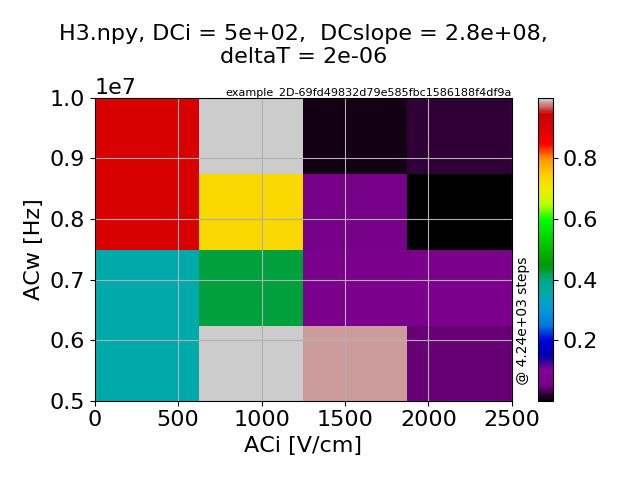
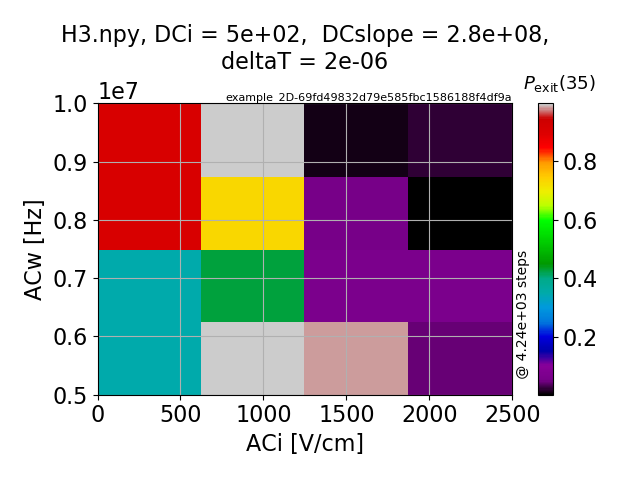
2D plots should also show the state_idx

diff --git a/src/main.py b/src/main.py
@@ -282,6 +282,8 @@ def plot(run_dir, options_fname, vmin=None, vmax=None):
           transform=plt.gca().transAxes, fontdict={'fontsize':8}, ha="right")
     units = option_dict["units"]
     if "scan_range2" in option_dict:
+       plt.text(1.2, 1.05, "$P_\mathrm{exit}("+str(option_dict['state_idx'])+")$",
+               transform=plt.gca().transAxes, fontdict={'fontsize':13}, ha="right")
        plt.xlabel(option_dict["scan_param"]+" ["+units[option_dict["scan_param"]]+"]")
        plt.ylabel(option_dict["scan_param2"]+" ["+units[option_dict["scan_param2"]]+"]")
     else:
